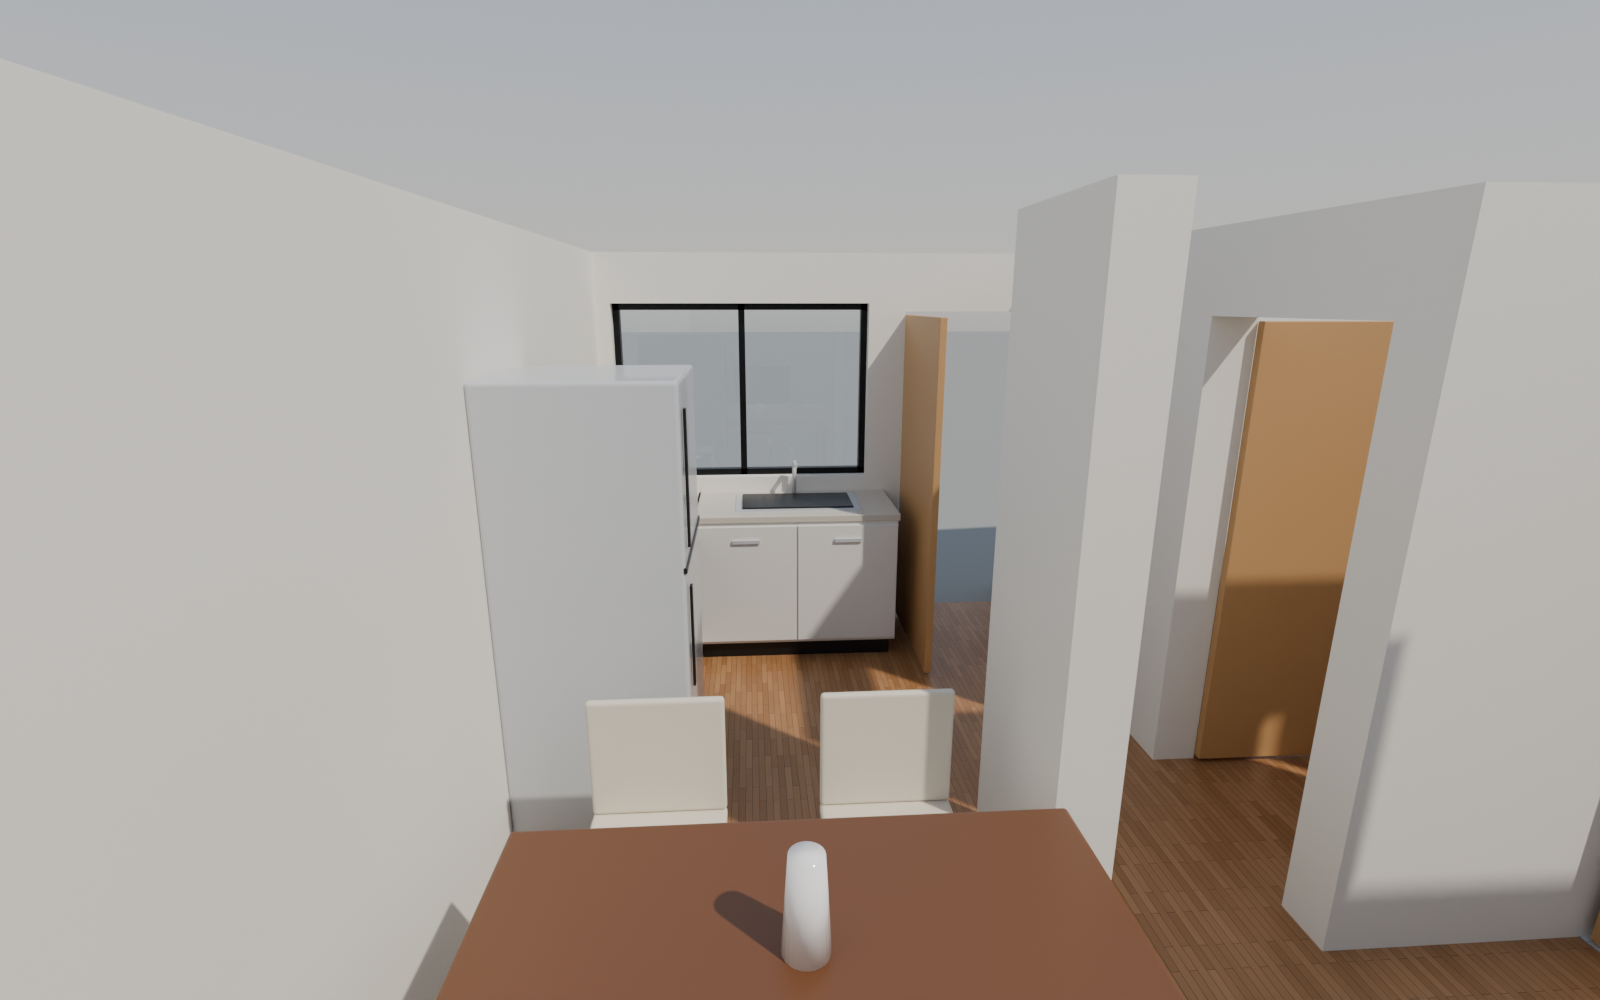
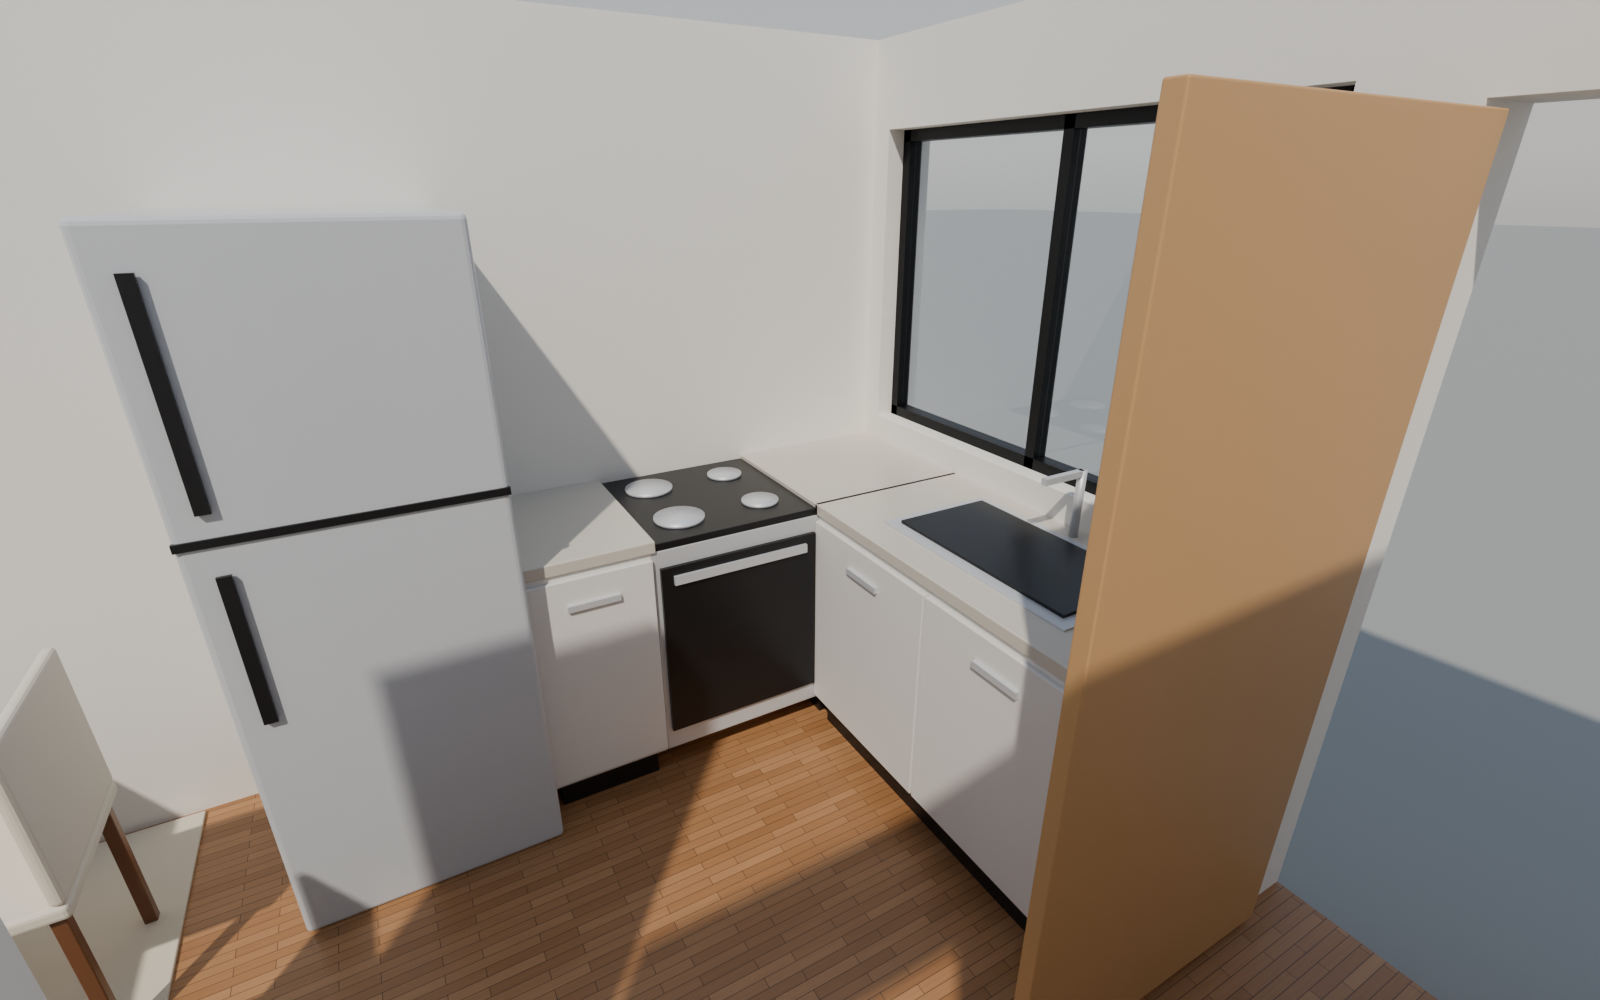
Nueva vista de la cocina en L (nevera, estufa con horno y fregadero bajo la ventana)
Claude-Session: https://claude.ai/code/session_01FjBeNf4WjH2KP9gBJAno4x

diff --git a/render/escena_blender.py b/render/escena_blender.py
@@ -237,7 +237,7 @@ CAMS = {
     "dorm2": dict(loc=(9.0, 2.7, 2.0), tgt=(7.0, 0.6, 0.5), lens=16),
     "sur": dict(loc=(4.2, -2.4, 7.0), tgt=(4.9, 4.4, 0.4), lens=24),
     "sala": dict(loc=(0.2, 2.2, 5.6), tgt=(5.2, 5.0, 0.2), lens=22),
-    "cocina": dict(loc=(4.0, 5.2, 2.1), tgt=(8.6, 4.9, 0.9), lens=17),
+    "cocina": dict(loc=(7.0, 3.5, 1.9), tgt=(8.2, 5.6, 0.9), lens=17),
 }
 c = CAMS.get(CAM) or dict(loc=tuple(float(v) for v in os.environ["CAM_LOC"].split(",")),
                          tgt=tuple(float(v) for v in os.environ["CAM_TGT"].split(",")),
